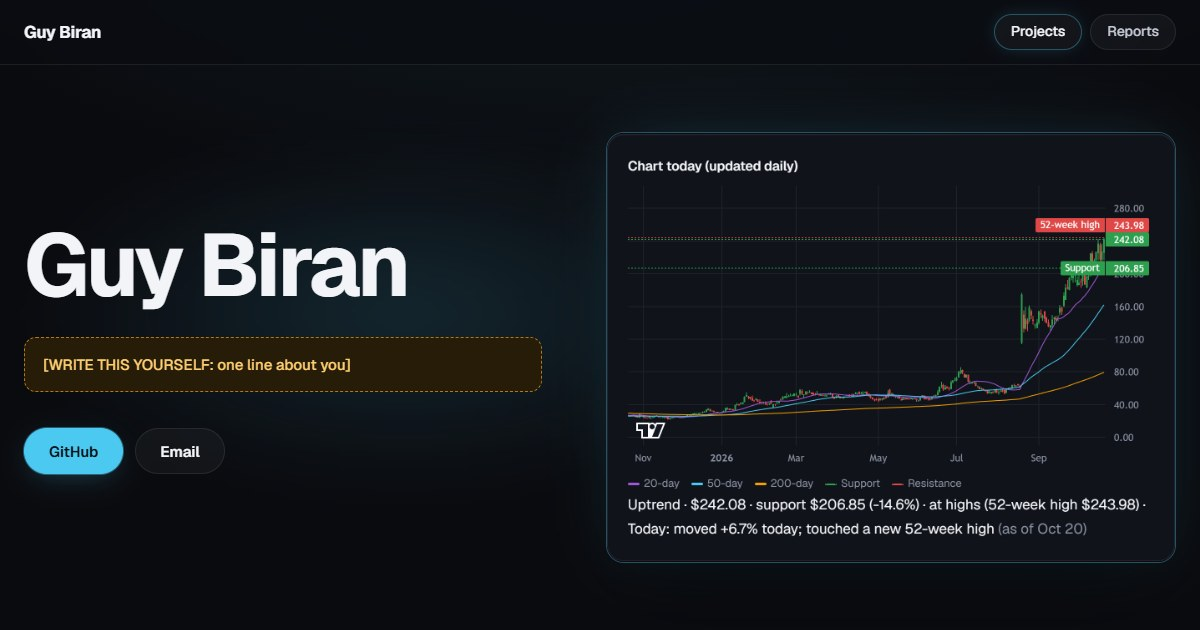
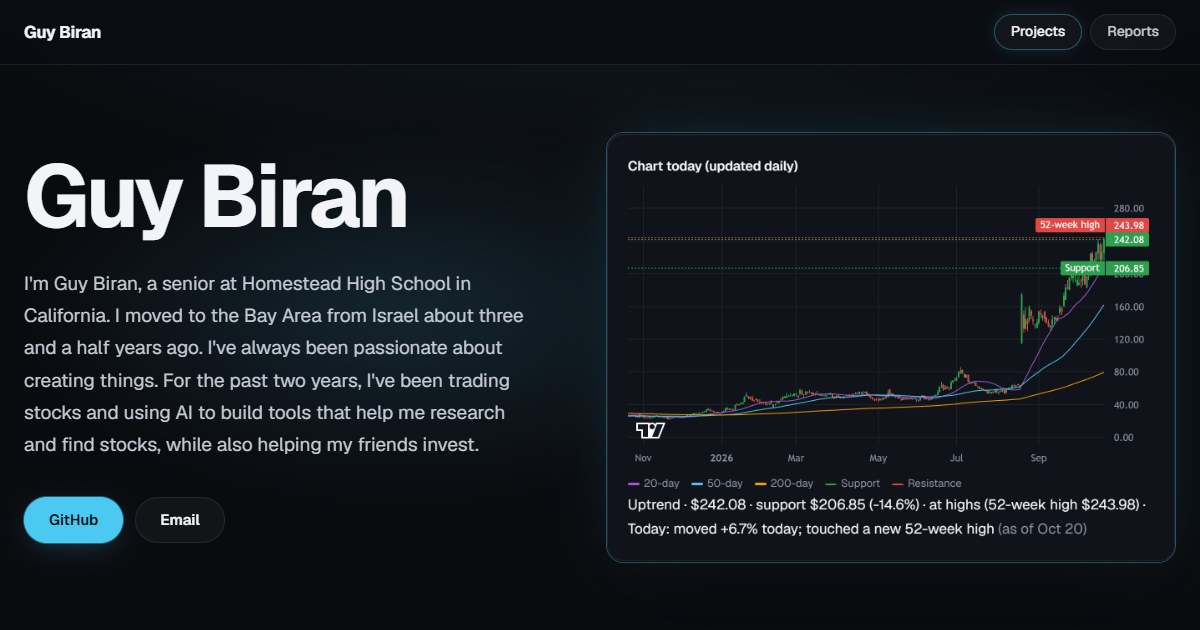
Add About paragraph to homepage and refresh link-preview image

Changed region(s): [[0.0, 0.2413, 0.4625, 0.8746]]

diff --git a/index.html b/index.html
@@ -33,7 +33,7 @@
       <div class="wrap hero-grid">
         <div class="hero-text">
           <h1>Guy Biran</h1>
-          <p class="todo">[WRITE THIS YOURSELF: one line about you]</p>
+          <p class="about">I'm Guy Biran, a senior at Homestead High School in California. I moved to the Bay Area from Israel about three and a half years ago. I've always been passionate about creating things. For the past two years, I've been trading stocks and using AI to build tools that help me research and find stocks, while also helping my friends invest.</p>
           <ul class="links">
             <li><a href="https://github.com/Guybiran8">GitHub</a></li>
             <li><a href="mailto:guybiran100@gmail.com">Email</a></li>

diff --git a/style.css b/style.css
@@ -298,6 +298,13 @@ h1 {
   to { transform: scale(3); opacity: 0; }
 }
 .hero-text .todo { max-width: 34rem; }
+.hero-text .about {
+  max-width: 36rem;
+  margin: 0;
+  color: var(--body);
+  font-size: 1.1875rem;
+  line-height: 1.7;
+}
 .hero-shot img {
   display: block;
   width: 100%;
